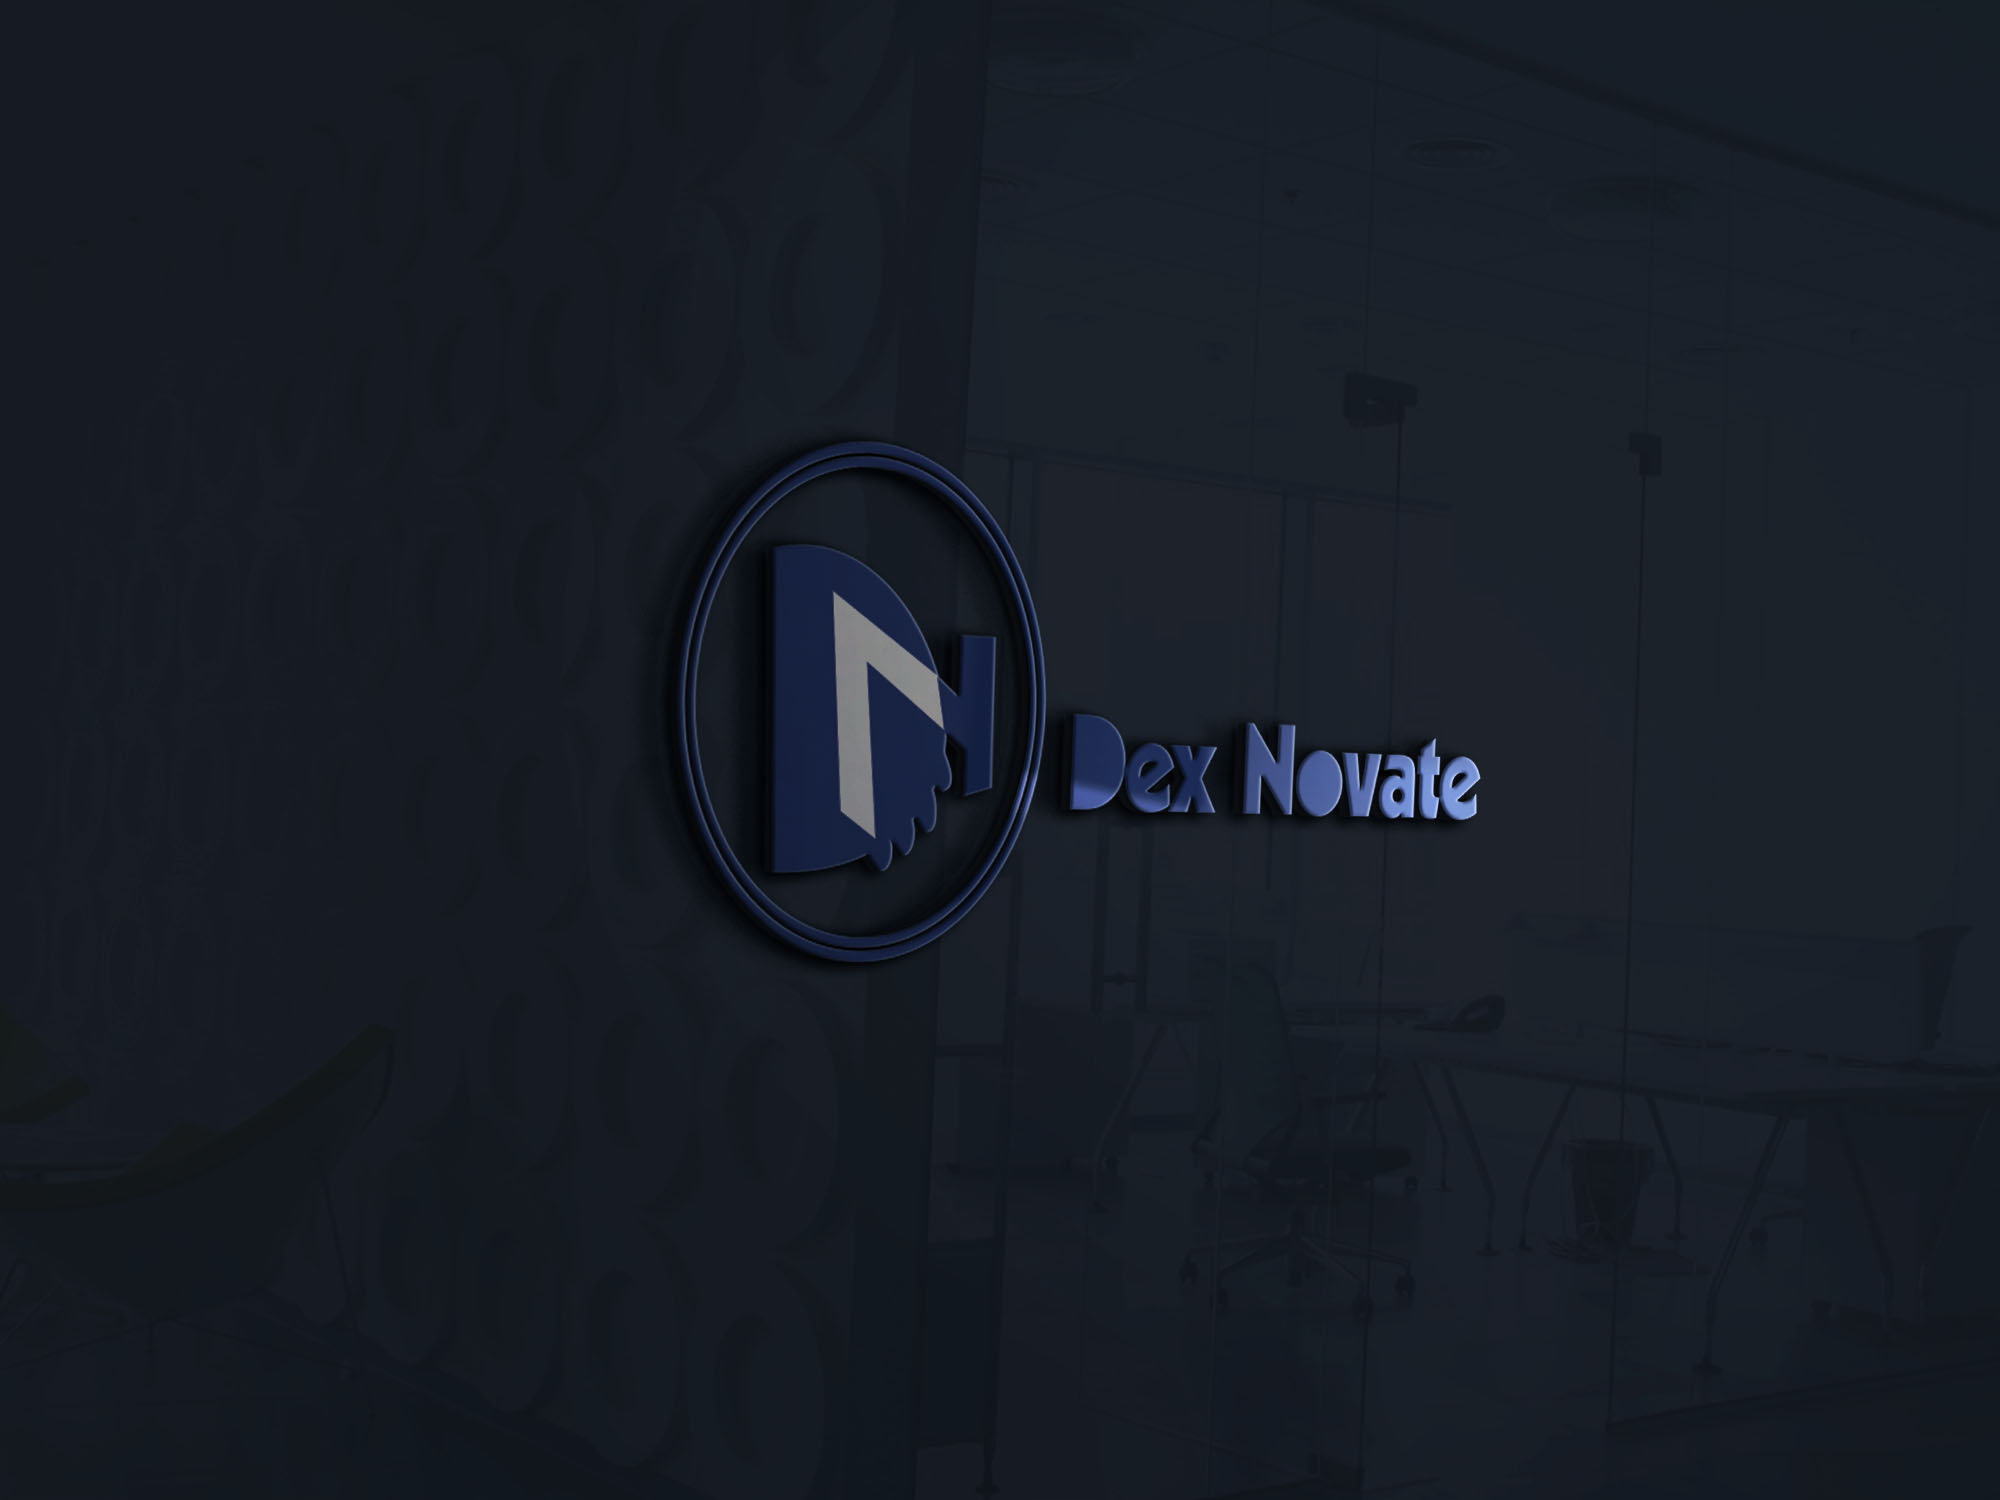
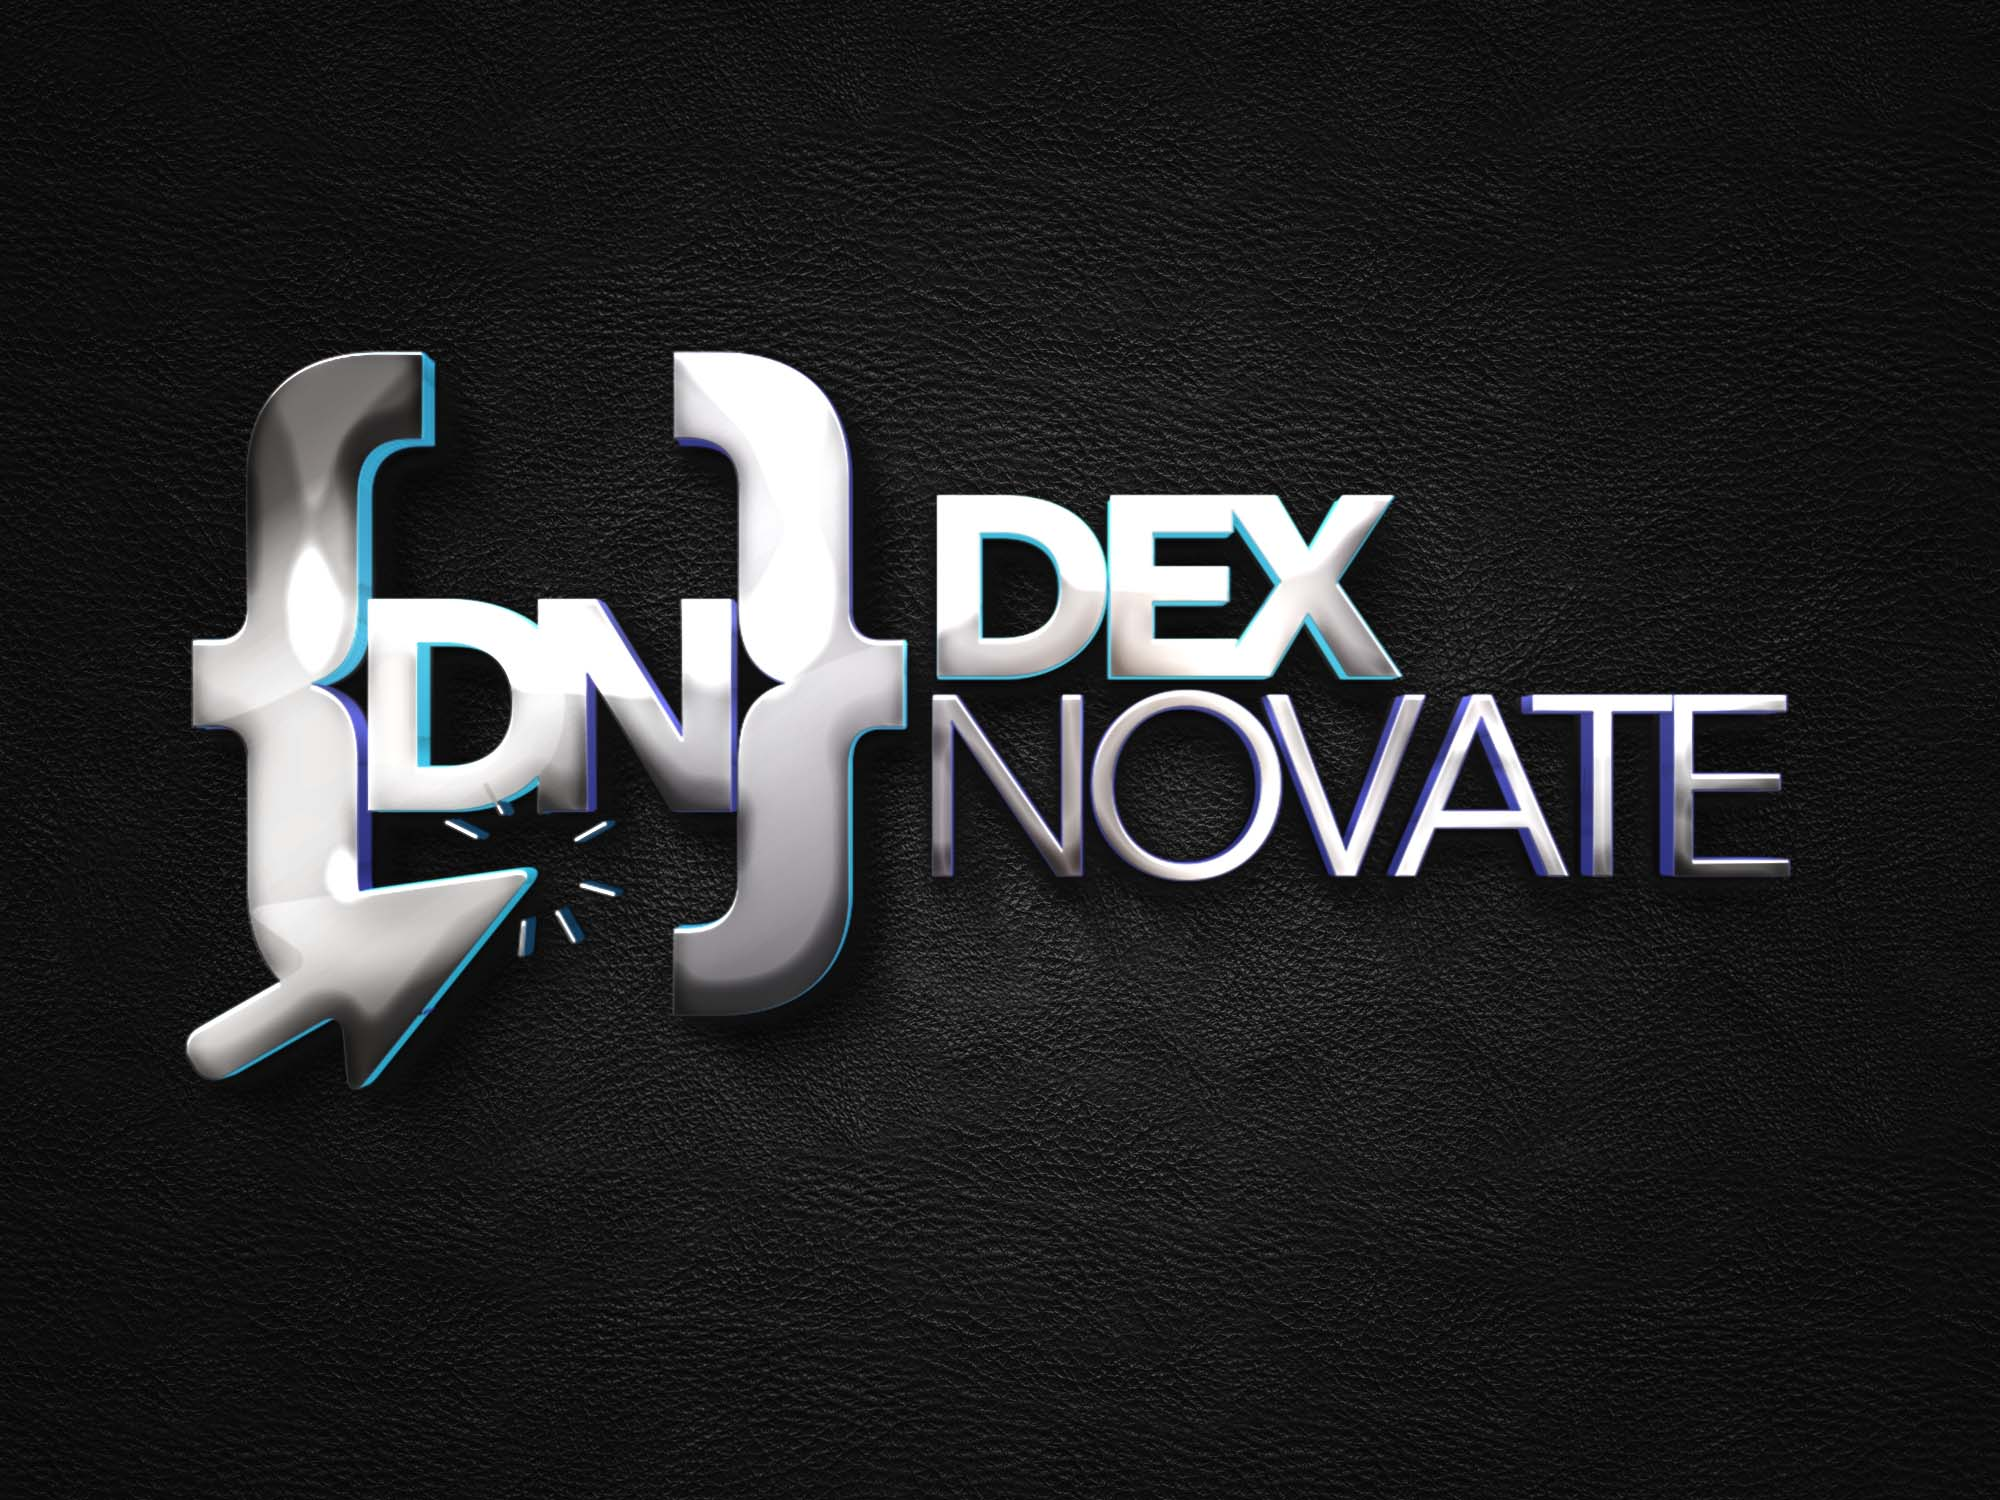
first commit

diff --git a/index.html b/index.html
@@ -48,14 +48,15 @@
         <!-- nav -->
         <nav class="main-header d-flex">
             <div id="brand">
-                <div id="logo">
+                <div id="logo " class="logo">
                     <a href="index.html">
-                      <i class="fas fa-crosshairs"></i>
+                      <img src="./Assist/img/Dexnovate 4.png" alt="">
                     </a>
                 </div>
-                <div id="word-mark">
+                <div id="word-mark" class="word-mark">
                     <h1>
-                        <a href="index.html">Dexnovate</a>
+                        <a href="index.html" class="word-text" >Dexnovate</a>
+
                     </h1>
                 </div>
             </div>
@@ -99,7 +100,7 @@
                 <h6 data-aos="fade-right">Hello, my name is Destiny Erieme</h6>
                 <h3 data-text="I'm a Programmer"> I'm a Programmer</h3>
                 <div class="ban-buttons mt-3" data-aos="fade-right">
-                    <a class="btn work active" href="https://wa.me/2349061841668">contact</a>
+                    <a class="btn work active" href="tel:2349061841668">contact</a>
                 </div>
 
             </div>
@@ -428,9 +429,15 @@
                 <div class="offset-lg-4"></div>
                 <div class="col-lg-4 footer-end-grid mt-md-0 mt-sm-5" data-aos="fade-up">
                     <h2>
+                        <div class="logo">
                         <a href="#home">
-                   <i class="fa fa-crosshairs"></i>Dexnovate
-                </a>
+                            <img src="./Assist/img/Dexnovate 4.png" width="140px" alt=""> 
+                        </a>
+                        <span style="position: relative; right:55px; font-size:25px;
+                               text-transform: uppercase;">
+                            Dexnovate
+                        </span>
+                        </div>
                     </h2>
                 </div>
             </div>

diff --git a/Assist/css/style.css b/Assist/css/style.css
@@ -139,6 +139,26 @@ ul.nav-honey {
     cursor: pointer;
 }
 
+.logo img{
+  max-width:145%;
+}
+
+@media screen and (max-width:360px){
+    .logo img{
+        max-width:80%;
+      } 
+
+      .word-mark{
+         
+      }
+      .word-text{
+          font-size: 15px !important;
+          left:23%;
+          position: absolute;
+          top: 50%;
+      }
+}
+
 #word-mark {
     width: 120px;
     border-radius: 90px;
@@ -262,7 +282,7 @@ div#word-mark h1 a {
 /*-- /header --*/
 
 .banner_section {
-    background: url(../img/dex.jpg) no-repeat 0px 0px;
+    background: url(../img/Dex.jpg) no-repeat 0px 0px;
     background-size: cover;
     background-position: cover;
     -webkit-background-size: cover;
@@ -270,7 +290,7 @@ div#word-mark h1 a {
     -o-background-size: cover;
     -ms-background-size: cover;
     background-blend-mode: overlay;
-    background-color: rgba(0, 0, 0, .3);
+    background-color: rgba(5, 2, 53, 0.802);
     height: 50vw;
     position: relative;
     z-index: 0;
